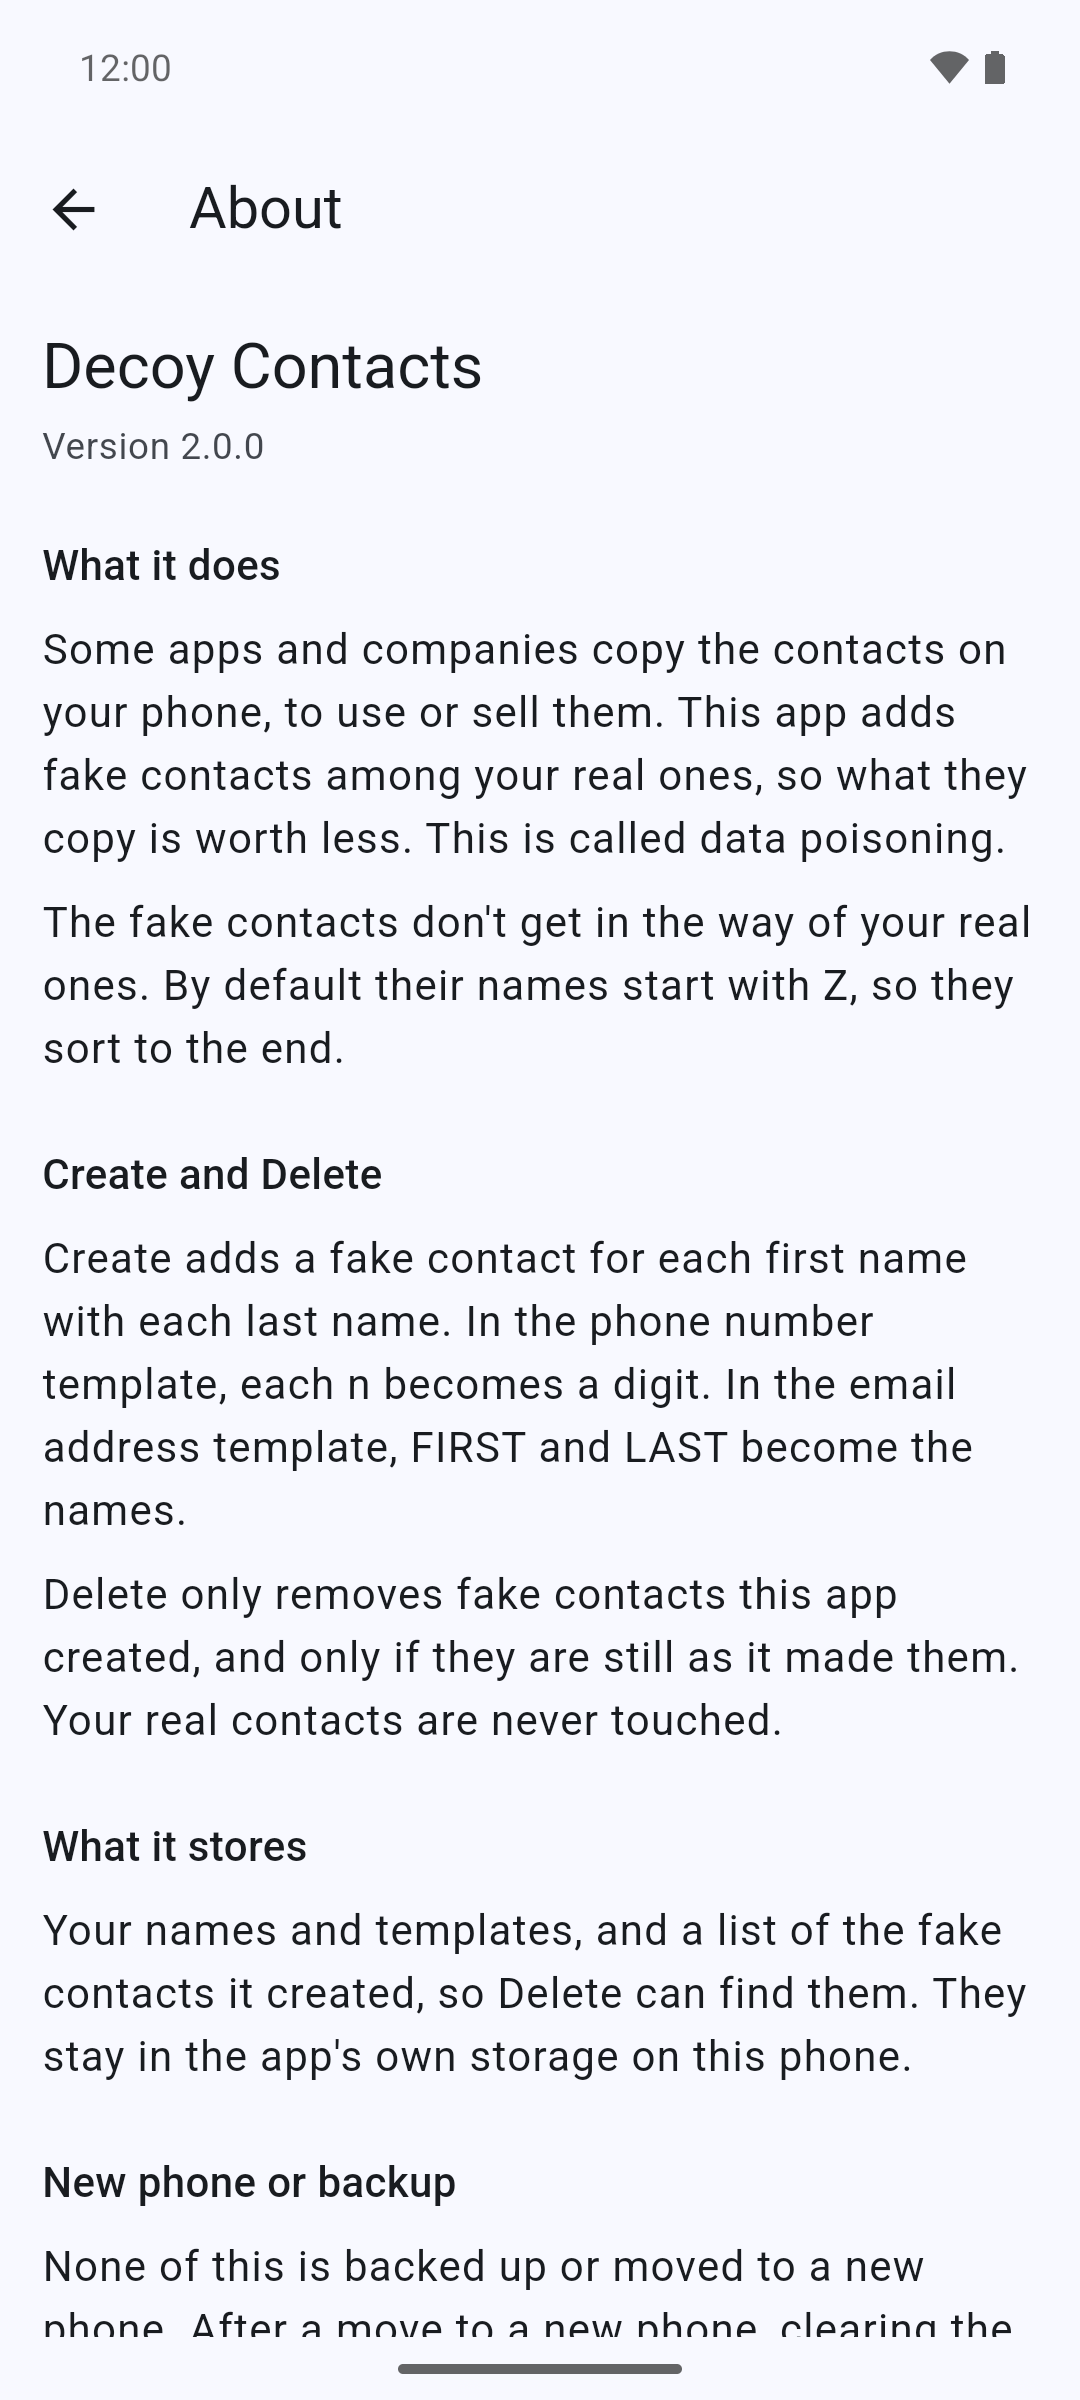
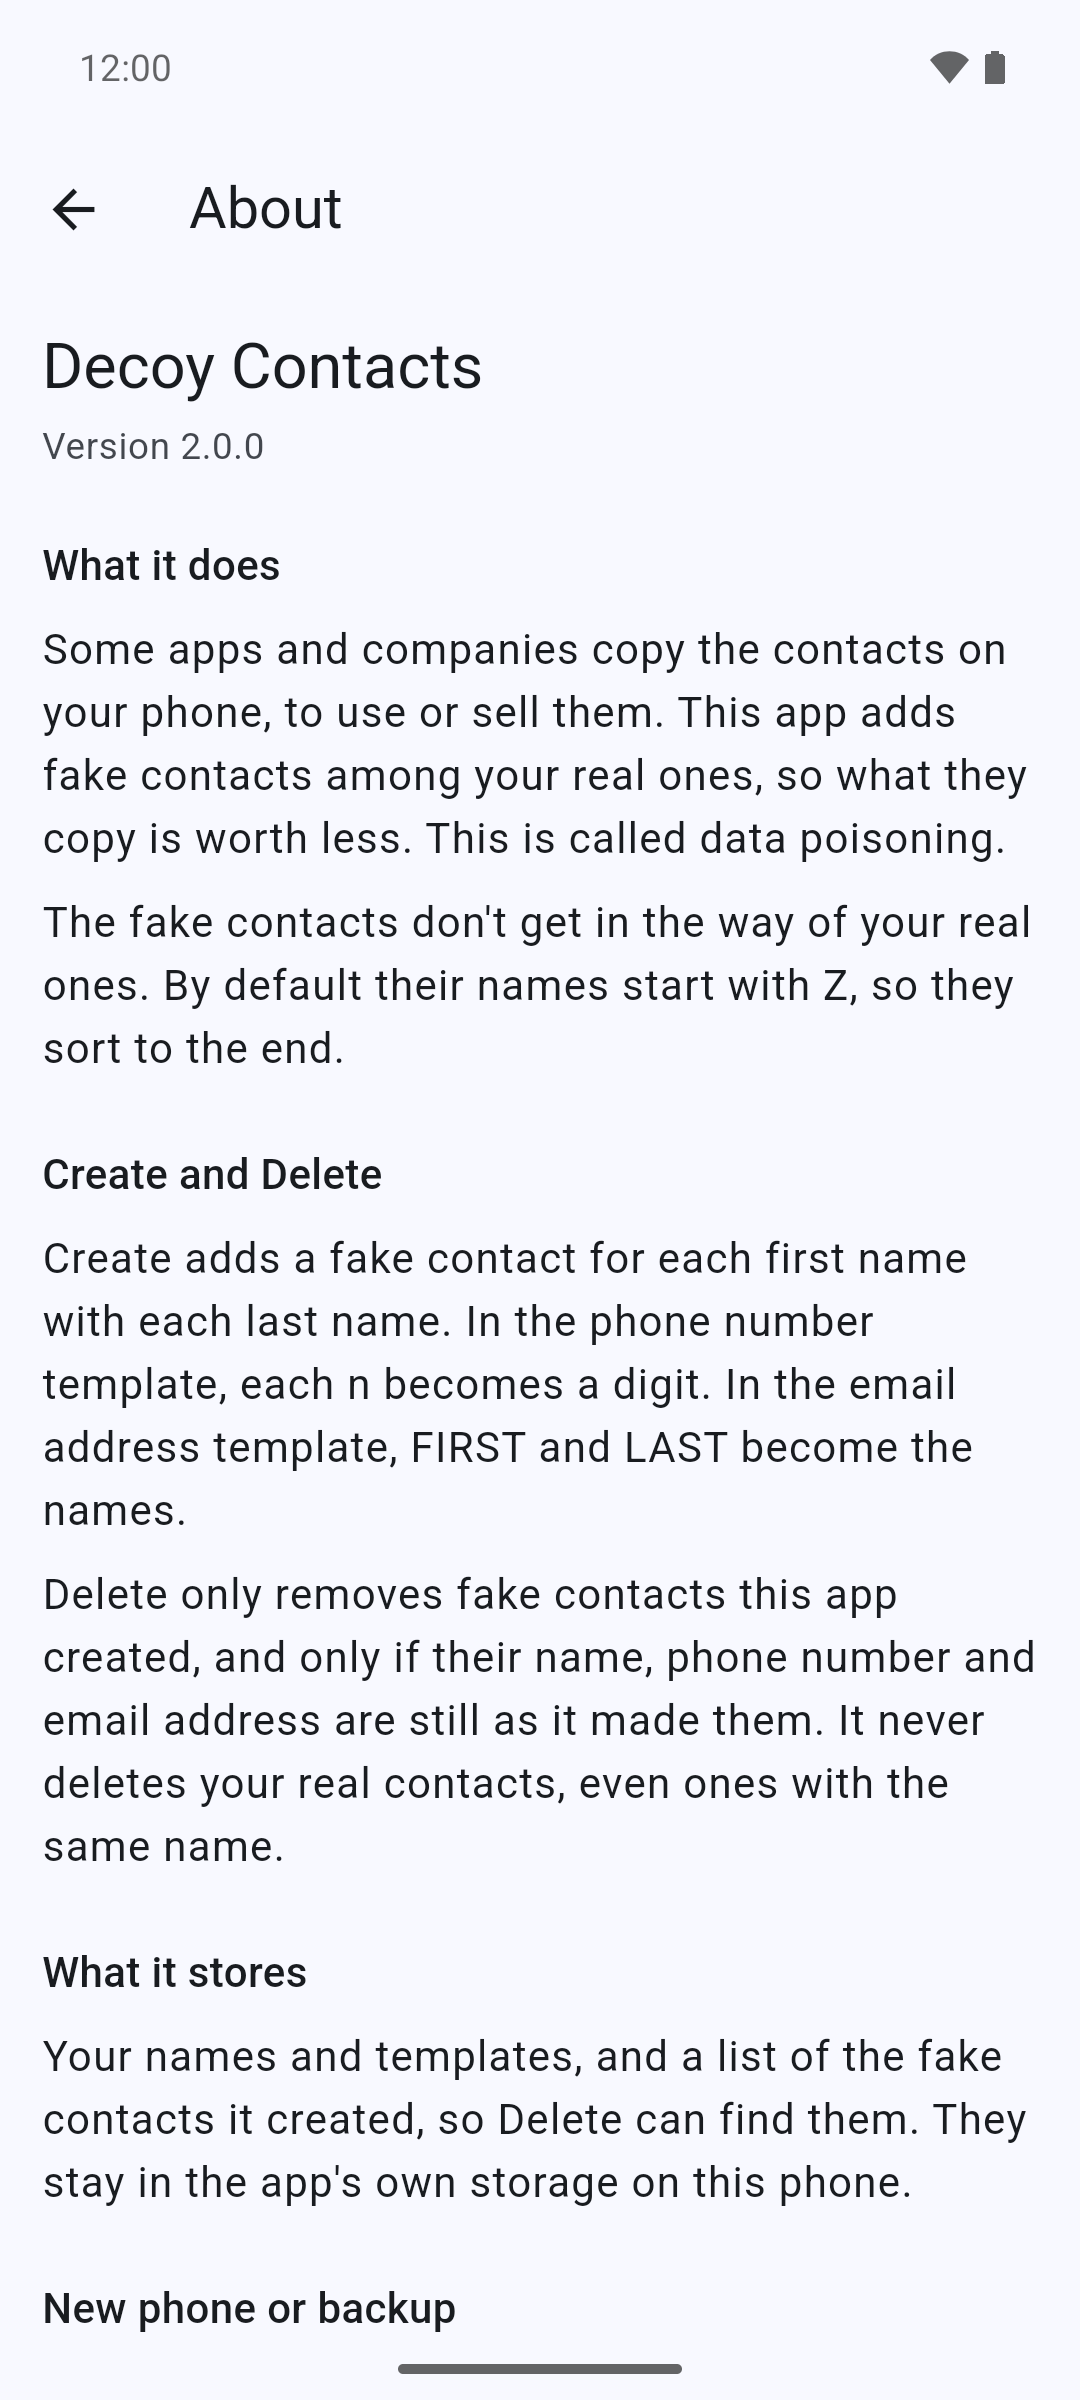
R8: credit lines (copyright for the fork, the original app on About), About's Delete wording, new screenshot 4

Changed region(s): [[0.0306, 0.6875, 0.9472, 0.9688], [0.8556, 0.7812, 0.9472, 0.9062], [0.7333, 0.7812, 0.7639, 0.8125]]

diff --git a/test/store_listing_test.dart b/test/store_listing_test.dart
@@ -8,7 +8,6 @@
 
 import 'dart:convert';
 import 'dart:io';
-import 'dart:math';
 
 import 'package:decoy_contacts/about_page.dart' show AboutPage, kAboutSections;
 import 'package:decoy_contacts/contact_actions.dart';
@@ -343,23 +342,14 @@ void main() {
 
   test('the About text screenshot 4 shows is still the app\'s', () {
     // en-US/images/phoneScreenshots/4.png shows About from the top: the
-    // name, the version, then these, down to the next heading and the start
-    // of its text. If they change, retake it. (Not the version: it shows
-    // the one it was taken with.)
-    const shownOfNext =
-        'None of this is backed up or moved to a new phone. '
-        'After a move to a new phone, clearing the';
+    // name, the version, then these, down to the next heading (its text is
+    // below the screen). If they change, retake it. (Not the version: it
+    // shows the one it was taken with.)
     expect(
       [
         for (final (heading, paragraphs) in kAboutSections.take(3))
           [heading, ...paragraphs],
-        [
-          kAboutSections[3].$1,
-          kAboutSections[3].$2.first.substring(
-            0,
-            min(shownOfNext.length, kAboutSections[3].$2.first.length),
-          ),
-        ],
+        [kAboutSections[3].$1],
       ],
       [
         [
@@ -376,8 +366,9 @@ void main() {
               'name. In the phone number template, each n becomes a digit. In '
               'the email address template, FIRST and LAST become the names.',
           'Delete only removes fake contacts this app created, and only if '
-              'they are still as it made them. Your real contacts are never '
-              'touched.',
+              'their name, phone number and email address are still as it '
+              'made them. It never deletes your real contacts, even ones '
+              'with the same name.',
         ],
         [
           'What it stores',
@@ -385,7 +376,7 @@ void main() {
               "created, so Delete can find them. They stay in the app's own "
               'storage on this phone.',
         ],
-        ['New phone or backup', shownOfNext],
+        ['New phone or backup'],
       ],
       reason: 'screenshot 4 shows this text: retake it',
     );

diff --git a/lib/about_page.dart b/lib/about_page.dart
@@ -35,6 +35,8 @@ const String kAppLicense = 'The MIT License (MIT)\n'
     '\n'
     'Copyright (c) 2021 Bill Dietrich\n'
     '\n'
+    'Copyright (c) 2026 thefanciestturtle\n'
+    '\n'
     'Permission is hereby granted, free of charge, to any person obtaining a '
     'copy of this software and associated documentation files (the '
     '"Software"), to deal in the Software without restriction, including '
@@ -81,8 +83,9 @@ const List<(String, List<String>)> kAboutSections = [
     'Create adds a fake contact for each first name with each last name. '
         'In the phone number template, each n becomes a digit. In the email '
         'address template, FIRST and LAST become the names.',
-    'Delete only removes fake contacts this app created, and only if they '
-        'are still as it made them. Your real contacts are never touched.',
+    'Delete only removes fake contacts this app created, and only if their '
+        'name, phone number and email address are still as it made them. It '
+        'never deletes your real contacts, even ones with the same name.',
   ]),
   ('What it stores', [
     'Your names and templates, and a list of the fake contacts it created, '
@@ -96,7 +99,10 @@ const List<(String, List<String>)> kAboutSections = [
         'made before. Delete them in your Contacts app.',
   ]),
   ('Privacy policy', [kPrivacyPolicy]),
-  ('Source code', ['Free software under the MIT license.']),
+  ('Source code', [
+    'Free software under the MIT license.',
+    'Based on Fake Contacts by Bill Dietrich.',
+  ]),
 ];
 
 /// Shown under the link if no app could open it.

diff --git a/test/about_page_test.dart b/test/about_page_test.dart
@@ -117,6 +117,27 @@ void main() {
       expect(File('LICENSE.md').readAsStringSync().replaceAll('\r\n', '\n').trim(),
           kAppLicense);
     });
+
+    test("the licence keeps the original author's line, then the fork's", () {
+      // The MIT license requires the original notice in every copy.
+      expect(
+        RegExp(r'^Copyright .*$', multiLine: true)
+            .allMatches(kAppLicense)
+            .map((m) => m.group(0)),
+        [
+          'Copyright (c) 2021 Bill Dietrich',
+          'Copyright (c) 2026 thefanciestturtle',
+        ],
+      );
+    });
+
+    test('the source code section credits the original app', () {
+      final source = kAboutSections.singleWhere((s) => s.$1 == 'Source code');
+      expect(source.$2, [
+        'Free software under the MIT license.',
+        'Based on Fake Contacts by Bill Dietrich.',
+      ]);
+    });
   });
 
   test("the app's licence is added to the licence page, once", () async {

diff --git a/test/readme_test.dart b/test/readme_test.dart
@@ -309,6 +309,20 @@ void main() {
     }
   });
 
+  test("the README's License section names the copyright holders of LICENSE.md",
+      () {
+    // "Copyright 2021 Bill Dietrich, 2026 thefanciestturtle."
+    final holders = RegExp(r'^Copyright \(c\) (\d{4}) (.+)$', multiLine: true)
+        .allMatches(File('LICENSE.md').readAsStringSync())
+        .map((m) => '${m.group(1)} ${m.group(2)}')
+        .toList();
+    expect(holders, ['2021 Bill Dietrich', '2026 thefanciestturtle']);
+    expect(
+      section(File('README.md').readAsStringSync(), 'License'),
+      contains('MIT license.  Copyright ${holders.join(', ')}.'),
+    );
+  });
+
   test("DEVELOPMENT.md's Flutter and JDK versions are where it says", () {
     // "`FLUTTER_VERSION` in `.github/workflows/dart.yml`", "`JAVA_VERSION`
     // there" (tool/check_lib.sh reads them from there too).

diff --git a/integration_test/app_test.dart b/integration_test/app_test.dart
@@ -943,6 +943,7 @@ void main() {
     await tester.tap(app);
     await tester.pumpAndSettle();
     expect(find.text('Copyright (c) 2021 Bill Dietrich'), findsOneWidget);
+    expect(find.text('Copyright (c) 2026 thefanciestturtle'), findsOneWidget);
 
     // Back to the app's page (how many pages that takes depends on the
     // licence page's layout, which on a wide screen is one page).

diff --git a/test/about_licenses_test.dart b/test/about_licenses_test.dart
@@ -26,5 +26,6 @@ void main() {
     await tester.tap(find.text(kLicensePackage));
     await tester.pumpAndSettle();
     expect(find.text('Copyright (c) 2021 Bill Dietrich'), findsOneWidget);
+    expect(find.text('Copyright (c) 2026 thefanciestturtle'), findsOneWidget);
   });
 }

diff --git a/LICENSE.md b/LICENSE.md
@@ -2,6 +2,8 @@ The MIT License (MIT)
 
 Copyright (c) 2021 Bill Dietrich
 
+Copyright (c) 2026 thefanciestturtle
+
 Permission is hereby granted, free of charge, to any person obtaining a copy of this software and associated documentation files (the "Software"), to deal in the Software without restriction, including without limitation the rights to use, copy, modify, merge, publish, distribute, sublicense, and/or sell copies of the Software, and to permit persons to whom the Software is furnished to do so, subject to the following conditions:
 
 The above copyright notice and this permission notice shall be included in all copies or substantial portions of the Software.

diff --git a/README.md b/README.md
@@ -102,4 +102,4 @@ How to build the app, run its tests and make release builds: [DEVELOPMENT.md](DE
 
 ## License
 
-See LICENSE.md file.  MIT license.  Copyright 2021 Bill Dietrich.
+See LICENSE.md file.  MIT license.  Copyright 2021 Bill Dietrich, 2026 thefanciestturtle.
